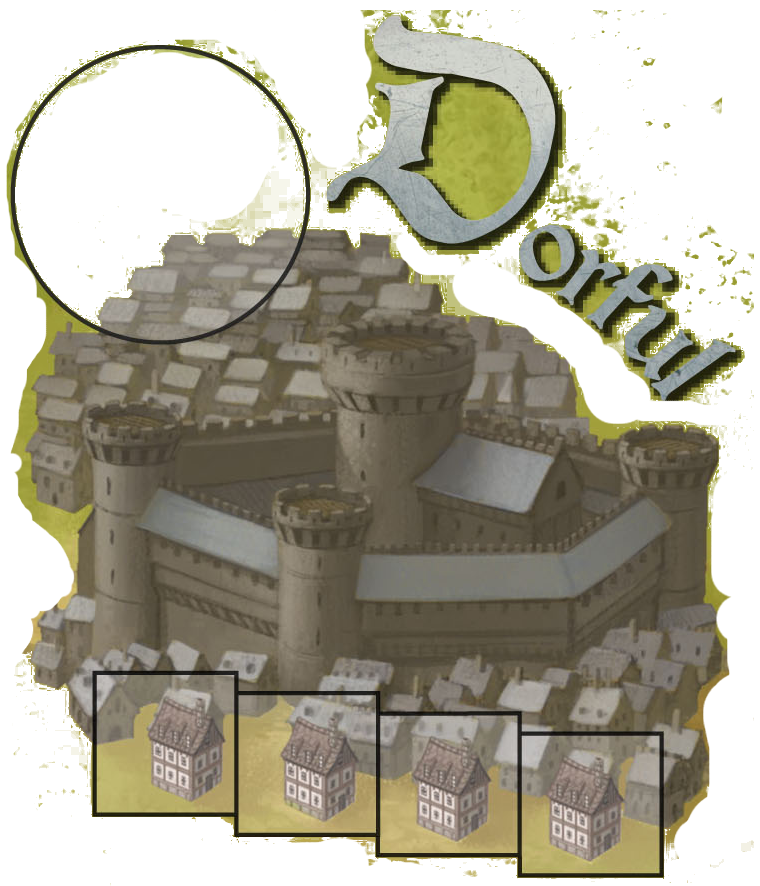
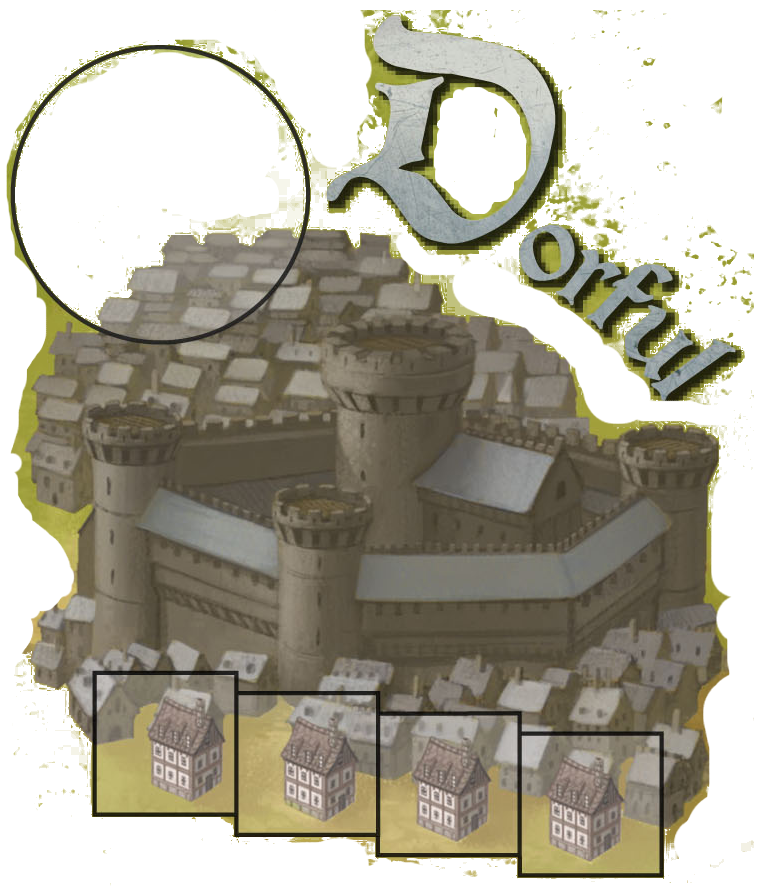
Effects.

Changed region(s): [[0.575, 0.0914, 0.6961, 0.2438], [0.3026, 0.2133, 0.3632, 0.2438]]

diff --git a/src/client/GUI.java b/src/client/GUI.java
@@ -4,6 +4,7 @@ import javafx.application.Application;
 import javafx.geometry.HPos;
 import javafx.scene.Scene;
 import javafx.scene.control.Button;
+import javafx.scene.effect.BlurType;
 import javafx.scene.effect.DropShadow;
 import javafx.scene.effect.Effect;
 import javafx.scene.effect.Glow;
@@ -39,12 +40,13 @@ public class GUI extends Application {
     @Override
     public void start(Stage primaryStage) throws Exception {
         gridPane = new GridPane();
-        final Glow glow = new Glow(1.0);
+        final Glow glow = new Glow(0.8);
         final DropShadow borderglow = new DropShadow();
         borderglow.setColor(Color.WHITE);
         borderglow.setWidth(70);
         borderglow.setHeight(70);
-        glow.setInput(borderglow);
+        borderglow.setInput(glow);
+        borderglow.setBlurType(BlurType.GAUSSIAN);
 
         ColumnConstraints boardColumn = new ColumnConstraints();
         boardColumn.setFillWidth(true);
@@ -73,21 +75,21 @@ public class GUI extends Application {
         gameboardIV.fitHeightProperty().bind(primaryStage.heightProperty());
 
         // Town IVs
-        Image aImage = new Image(new FileInputStream("a.png"));
-        Image bImage = new Image(new FileInputStream("b.png"));
-        Image cImage = new Image(new FileInputStream("c.png"));
-        Image dImage = new Image(new FileInputStream("d.png"));
-        Image eImage = new Image(new FileInputStream("e.png"));
-        Image fImage = new Image(new FileInputStream("f.png"));
-        Image gImage = new Image(new FileInputStream("g.png"));
-        Image hImage = new Image(new FileInputStream("h.png"));
-        Image iImage = new Image(new FileInputStream("i.png"));
-        Image jImage = new Image(new FileInputStream("j.png"));
-        Image kImage = new Image(new FileInputStream("k.png"));
-        Image lImage = new Image(new FileInputStream("l.png"));
-        Image mImage = new Image(new FileInputStream("m.png"));
-        Image nImage = new Image(new FileInputStream("n.png"));
-        Image oImage = new Image(new FileInputStream("o.png"));
+        Image aImage = new Image(classLoader.getResourceAsStream("a.png"));
+        Image bImage = new Image(classLoader.getResourceAsStream("b.png"));
+        Image cImage = new Image(classLoader.getResourceAsStream("c.png"));
+        Image dImage = new Image(classLoader.getResourceAsStream("d.png"));
+        Image eImage = new Image(classLoader.getResourceAsStream("e.png"));
+        Image fImage = new Image(classLoader.getResourceAsStream("f.png"));
+        Image gImage = new Image(classLoader.getResourceAsStream("g.png"));
+        Image hImage = new Image(classLoader.getResourceAsStream("h.png"));
+        Image iImage = new Image(classLoader.getResourceAsStream("i.png"));
+        Image jImage = new Image(classLoader.getResourceAsStream("j.png"));
+        Image kImage = new Image(classLoader.getResourceAsStream("k.png"));
+        Image lImage = new Image(classLoader.getResourceAsStream("l.png"));
+        Image mImage = new Image(classLoader.getResourceAsStream("m.png"));
+        Image nImage = new Image(classLoader.getResourceAsStream("n.png"));
+        Image oImage = new Image(classLoader.getResourceAsStream("o.png"));
         boardObjects.add(new ObjectImageView(aImage, 0.07257407407407407, 0.059109289617486336, 0.10459153122197));
         boardObjects.add(new ObjectImageView(bImage, 0.061042592592592594, 0.24180327868852458, 0.114425925925926));
         boardObjects.add(new ObjectImageView(cImage, 0.2155925925925926, 0.11958469945355191, 0.114583333333333));
@@ -103,7 +105,7 @@ public class GUI extends Application {
         boardObjects.add(new ObjectImageView(mImage, 0.6729745030117486, 0.416462482946794, 0.120203003974608));
         boardObjects.add(new ObjectImageView(nImage, 0.82539565232543, 0.16800354706684858, 0.113268215283765));
         boardObjects.add(new ObjectImageView(oImage, 0.829096739437645, 0.3542896174863388, 0.106006559623886));
-        boardObjects.forEach(objectImageView -> setObjectGlow(objectImageView, glow));
+        boardObjects.forEach(objectImageView -> setObjectGlow(objectImageView, borderglow));
 
         // Add Nodes to anchorPane
         boardAnchor.getChildren().add(gameboardIV);
